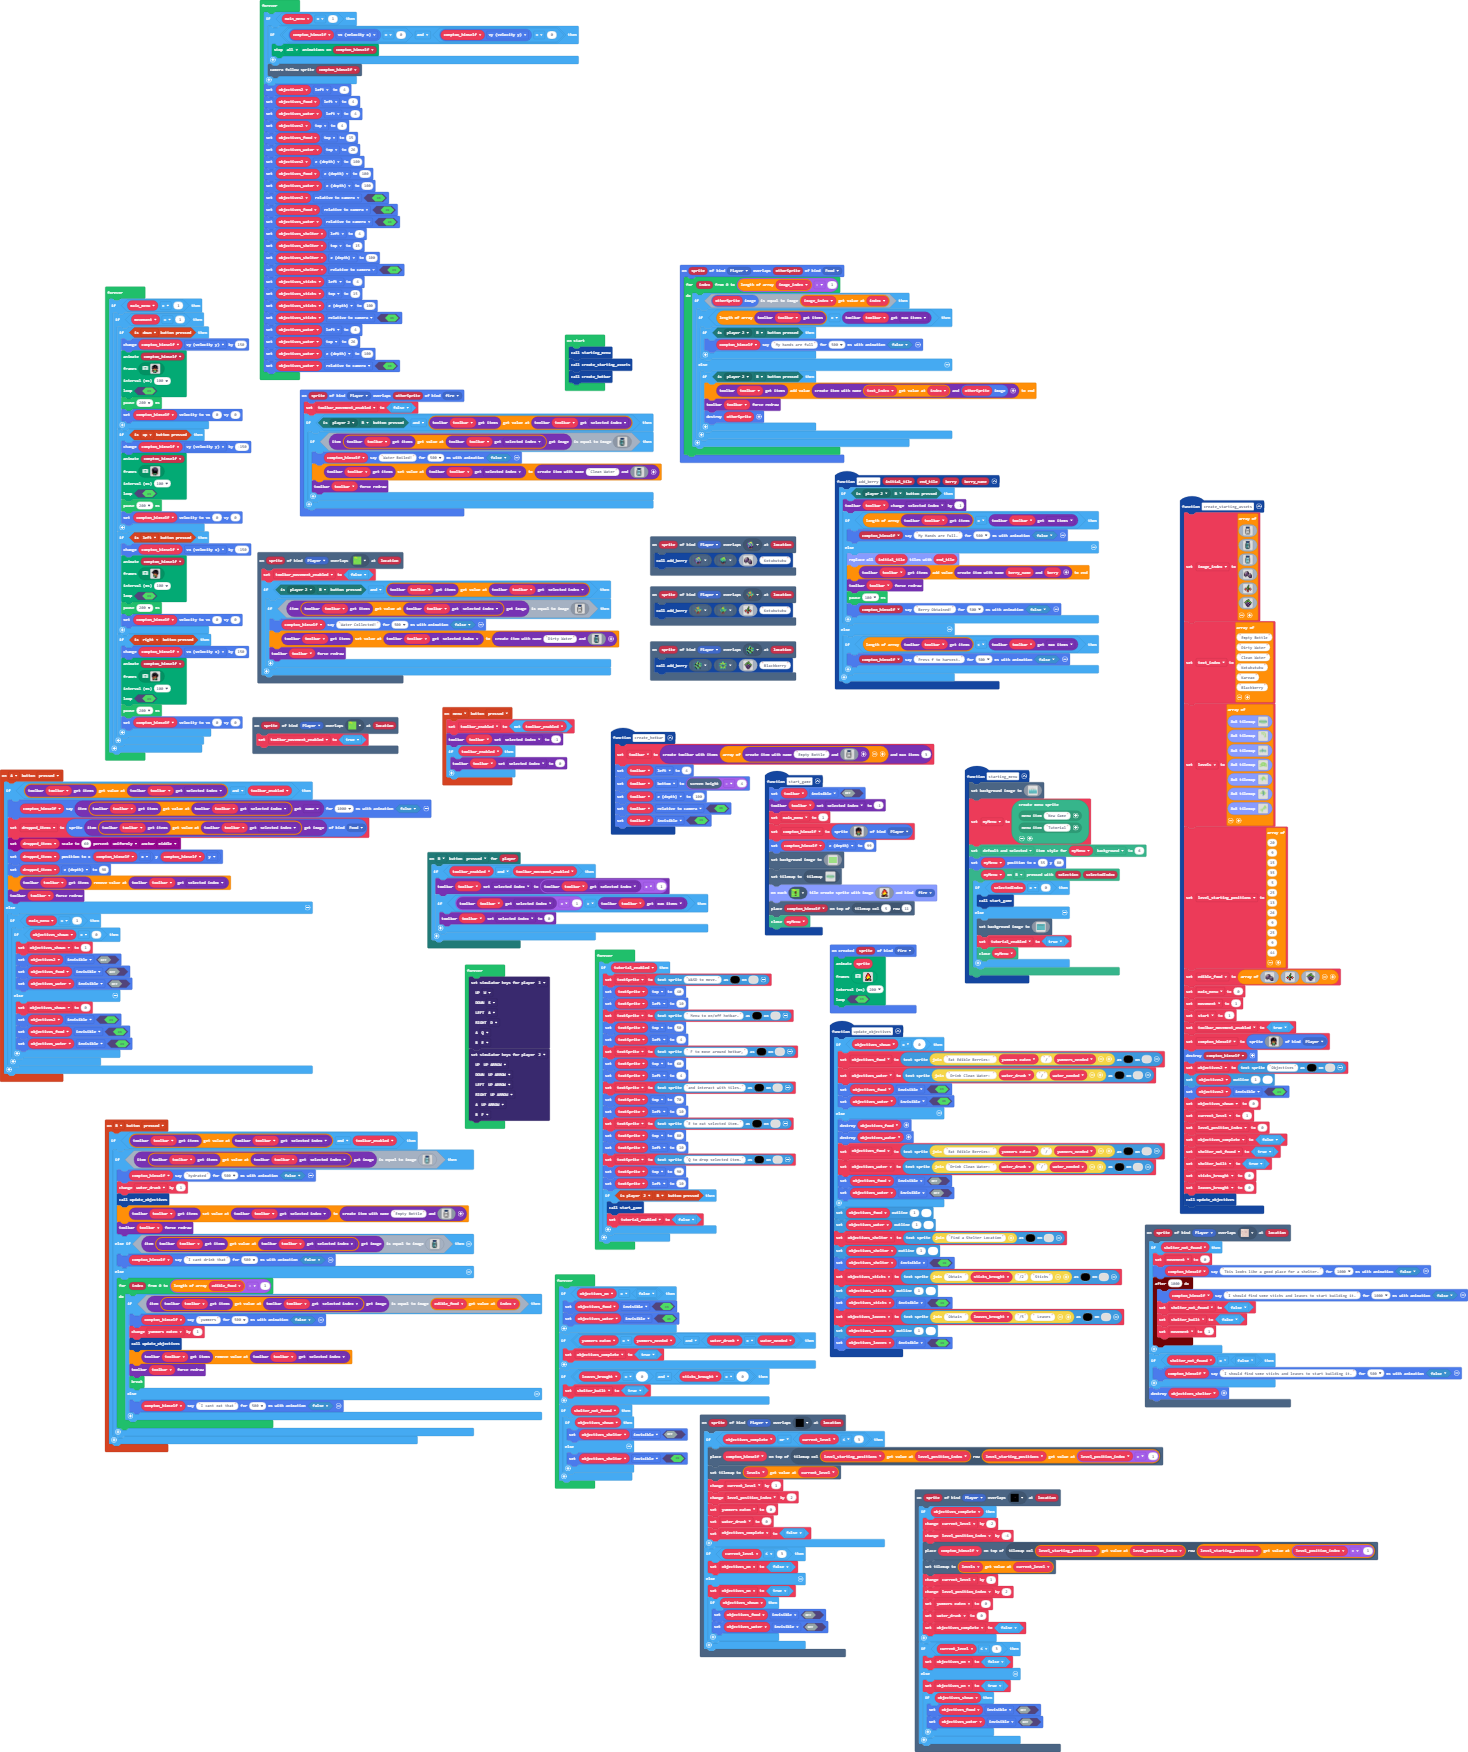
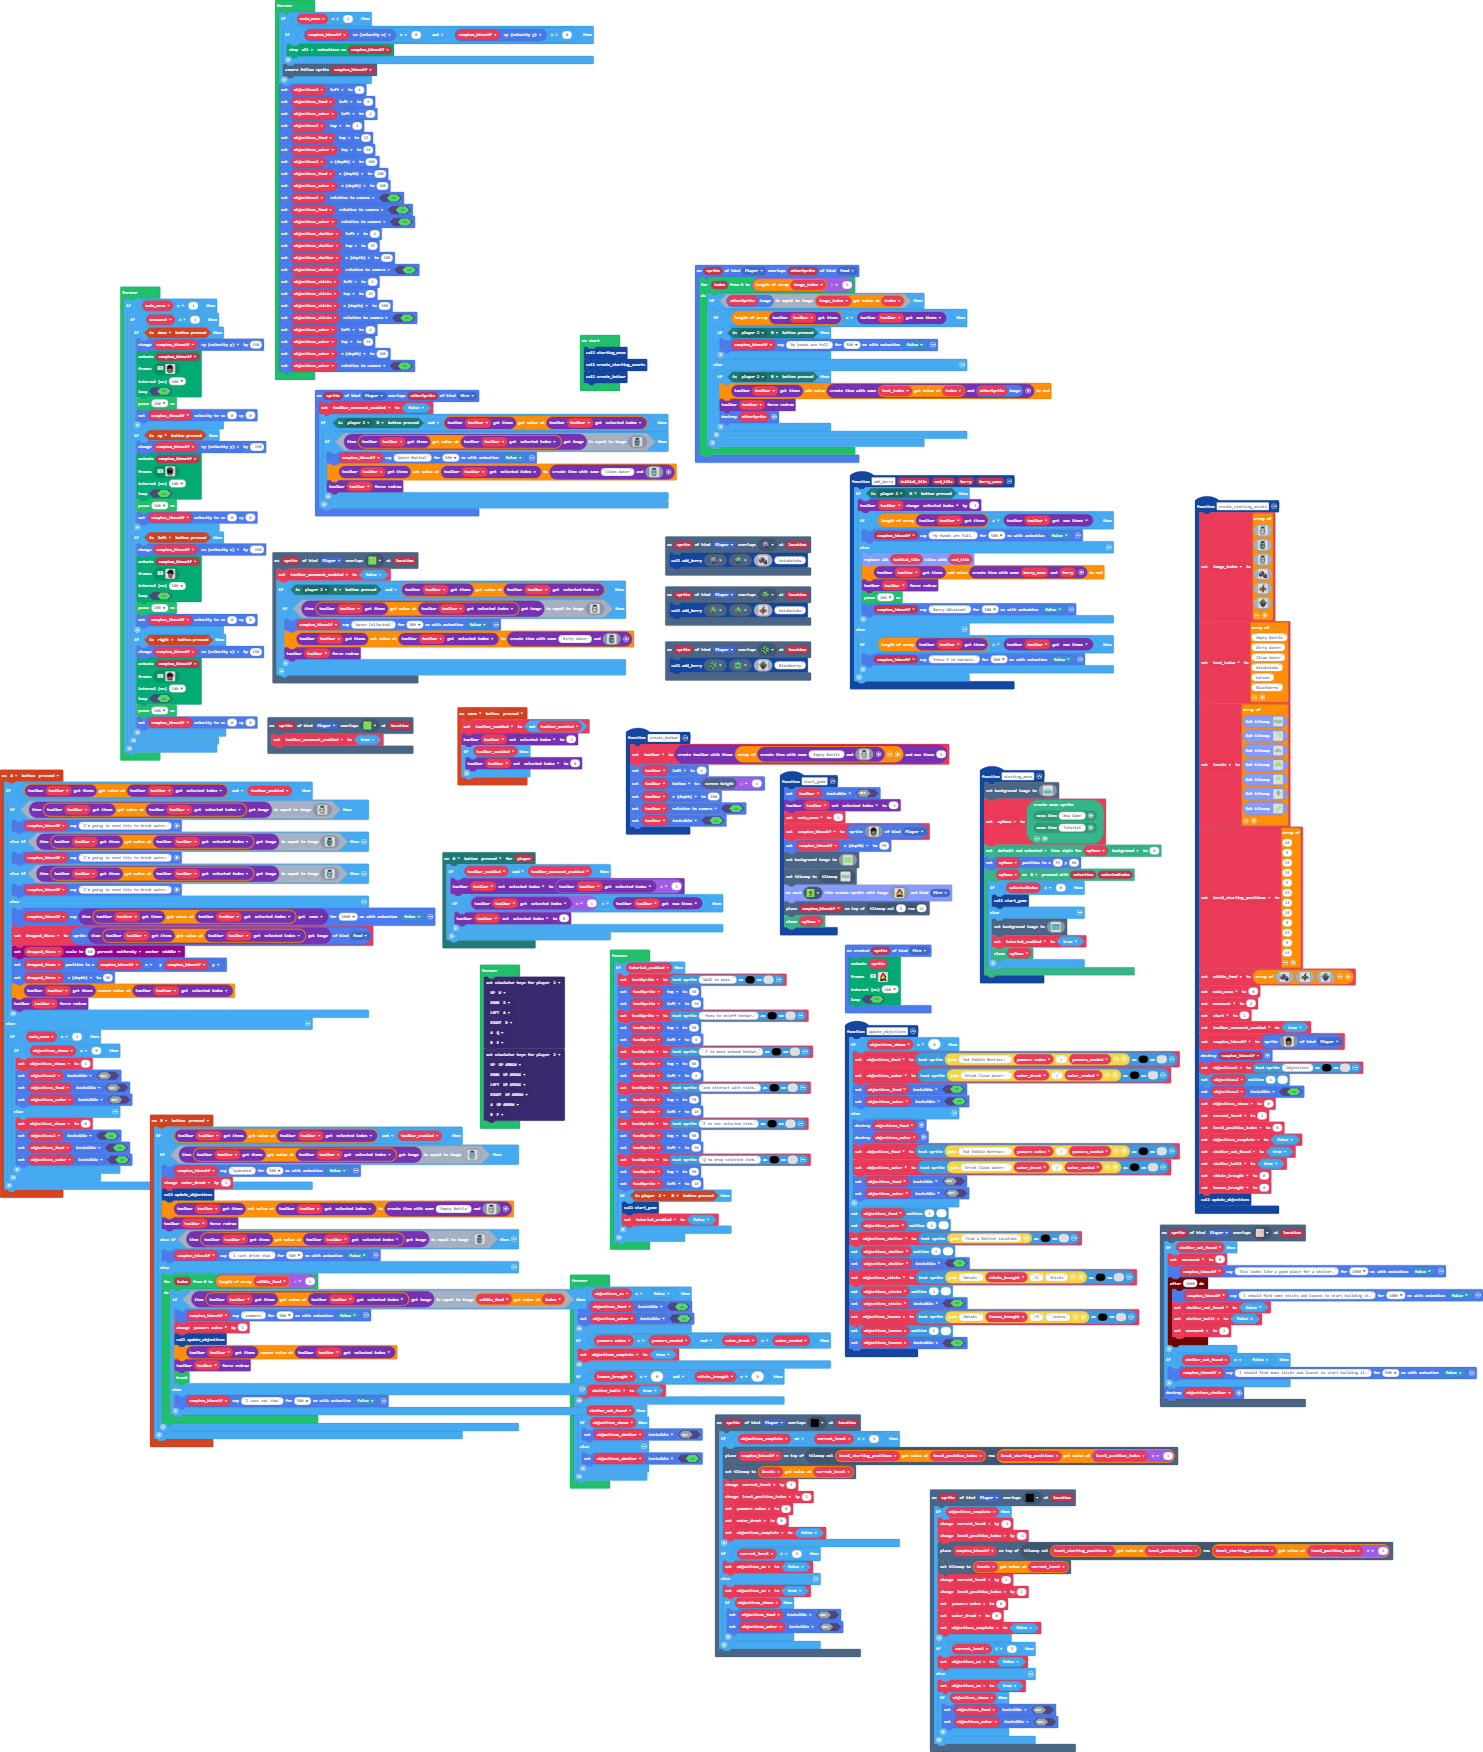
no drop water

Changed region(s): [[0.0, 0.0, 0.9196, 0.9555], [0.6131, 0.8014, 0.7357, 1.0], [0.3678, 0.0, 0.3985, 0.0308]]

diff --git a/main.ts b/main.ts
@@ -142,13 +142,21 @@ sprites.onCreated(SpriteKind.fire, function (sprite) {
 })
 controller.A.onEvent(ControllerButtonEvent.Pressed, function () {
     if (toolbar.get_items()[toolbar.get_number(ToolbarNumberAttribute.SelectedIndex)] && toolbar_enabled) {
-        compton_himself.sayText(toolbar.get_items()[toolbar.get_number(ToolbarNumberAttribute.SelectedIndex)].get_text(ItemTextAttribute.Name), 1000, false)
-        dropped_items = sprites.create(toolbar.get_items()[toolbar.get_number(ToolbarNumberAttribute.SelectedIndex)].get_image(), SpriteKind.Food)
-        scaling.scaleToPercent(dropped_items, 60, ScaleDirection.Uniformly, ScaleAnchor.Middle)
-        dropped_items.setPosition(compton_himself.x, compton_himself.y)
-        dropped_items.z = 98
-        toolbar.get_items().removeAt(toolbar.get_number(ToolbarNumberAttribute.SelectedIndex))
-        toolbar.update()
+        if (toolbar.get_items()[toolbar.get_number(ToolbarNumberAttribute.SelectedIndex)].get_image().equals(assets.image`no_water`)) {
+            compton_himself.sayText("I'm going to need this to drink water.")
+        } else if (toolbar.get_items()[toolbar.get_number(ToolbarNumberAttribute.SelectedIndex)].get_image().equals(assets.image`dirty_water`)) {
+            compton_himself.sayText("I'm going to need this to drink water.")
+        } else if (toolbar.get_items()[toolbar.get_number(ToolbarNumberAttribute.SelectedIndex)].get_image().equals(assets.image`clean_water`)) {
+            compton_himself.sayText("I'm going to need this to drink water.")
+        } else {
+            compton_himself.sayText(toolbar.get_items()[toolbar.get_number(ToolbarNumberAttribute.SelectedIndex)].get_text(ItemTextAttribute.Name), 1000, false)
+            dropped_items = sprites.create(toolbar.get_items()[toolbar.get_number(ToolbarNumberAttribute.SelectedIndex)].get_image(), SpriteKind.Food)
+            scaling.scaleToPercent(dropped_items, 60, ScaleDirection.Uniformly, ScaleAnchor.Middle)
+            dropped_items.setPosition(compton_himself.x, compton_himself.y)
+            dropped_items.z = 98
+            toolbar.get_items().removeAt(toolbar.get_number(ToolbarNumberAttribute.SelectedIndex))
+            toolbar.update()
+        }
     } else {
         if (main_menu == 1) {
             if (objectives_shown == 0) {
